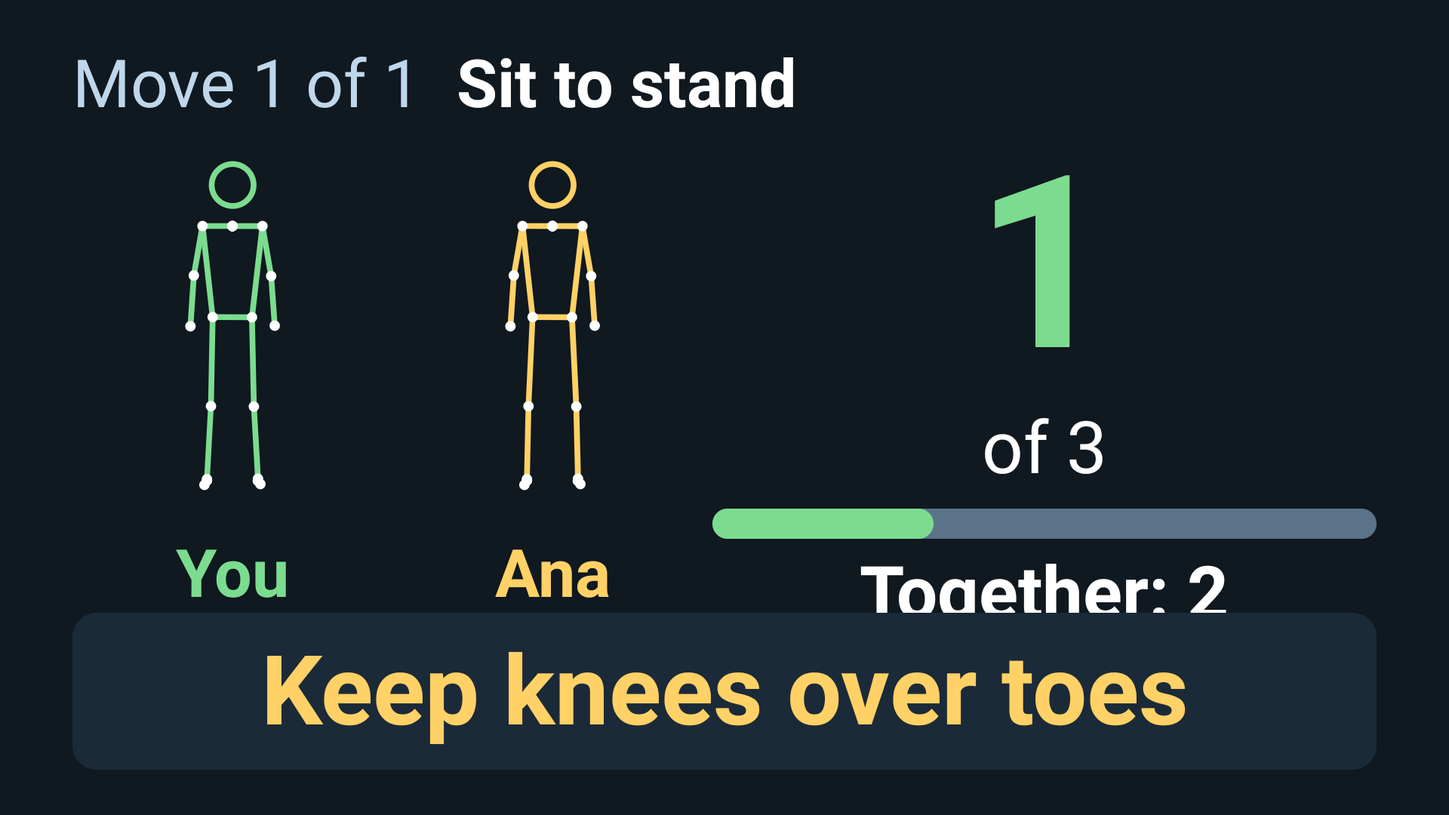
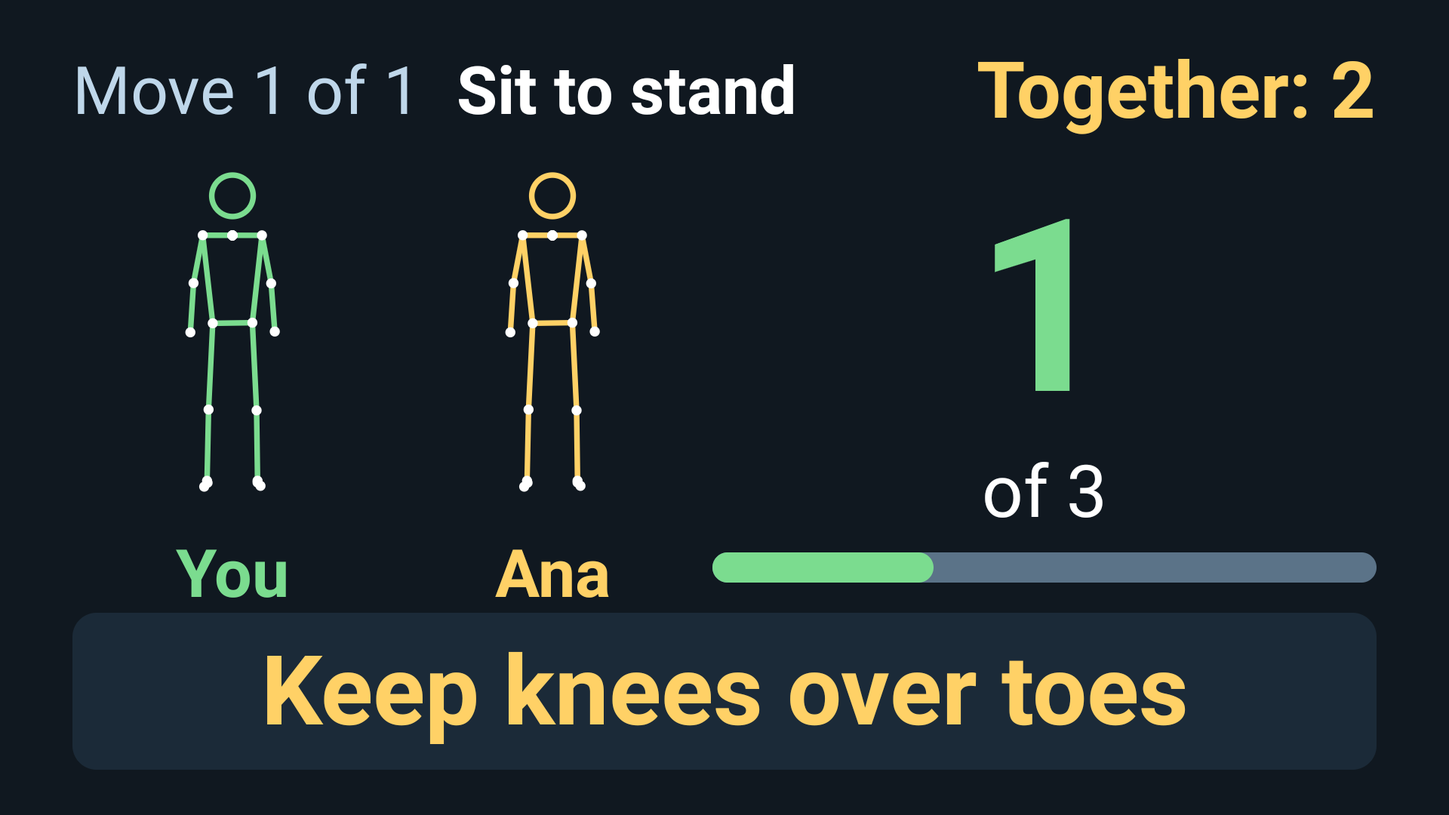
worldclass: fix Together total clipping, chair result button, focus scale, labels

diff --git a/android/app/src/main/java/com/steadyup/tv/Screens.kt b/android/app/src/main/java/com/steadyup/tv/Screens.kt
@@ -73,6 +73,7 @@ fun BigButton(label: String, onClick: () -> Unit, autoFocus: Boolean = true, fon
             focusedContainerColor = Color(0xFFBFE3F7), focusedContentColor = Ink.bg,
         ),
         border = ClickableSurfaceDefaults.border(focusedBorder = Border.None),
+        scale = ClickableSurfaceDefaults.scale(focusedScale = 1f),  // the ring and fill show focus; growing would push into neighbours and the safe margin
     ) {
         // the Surface's content box passes its size down, so a fixed-size button centres its label
         Box(if (fixedSize) Modifier.fillMaxSize() else Modifier, contentAlignment = Alignment.Center) {
@@ -199,6 +200,10 @@ fun LiveScreen(item: PlanItem, count: Int, cue: String?, pose: PoseFrame?, toget
             Text("Move $setNo ${Sentences.OF} $setTotal", fontSize = 44.sp, color = Ink.soft)
             Spacer(Modifier.width(24.dp))
             Text(item.title, fontSize = 44.sp, fontWeight = FontWeight.Bold, color = Ink.text)
+            if (together != null) {
+                Spacer(Modifier.weight(1f))
+                Text("${Sentences.TOGETHER_TOTAL} ${together.total}", fontSize = 52.sp, fontWeight = FontWeight.Bold, color = Ink.warn)
+            }
         }
         Row(Modifier.weight(1f).fillMaxWidth(), verticalAlignment = Alignment.CenterVertically) {
             if (together == null) Column(Modifier.weight(1f).fillMaxHeight(), verticalArrangement = Arrangement.Center) {
@@ -219,7 +224,6 @@ fun LiveScreen(item: PlanItem, count: Int, cue: String?, pose: PoseFrame?, toget
                 Box(Modifier.fillMaxWidth().height(20.dp).background(Color(0xFF5B7388), RoundedCornerShape(10.dp))) {
                     Box(Modifier.fillMaxWidth((count.toFloat() / item.target).coerceIn(0f, 1f)).fillMaxHeight().background(Ink.good, RoundedCornerShape(10.dp)))
                 }
-                if (together != null) { Spacer(Modifier.height(8.dp)); Text("${Sentences.TOGETHER_TOTAL} ${together.total}", fontSize = 48.sp, fontWeight = FontWeight.Bold, color = Ink.text) }
             }
         }
         // bottom banner: the form cue when there is one, otherwise what to do. With no voice on this TV, cues are bigger.
@@ -283,7 +287,7 @@ fun CalibrateScreen(cycles: Int, retry: Boolean, pose: PoseFrame?, onSkip: () ->
             Spacer(Modifier.height(12.dp))
             Text("$cycles ${Sentences.OF} 2", fontSize = 72.sp, fontWeight = FontWeight.Bold, color = Ink.good)
             Spacer(Modifier.height(12.dp))
-            BigButton(Sentences.CAL_SKIP, onSkip, fontSp = 40)
+            BigButton(Sentences.CAL_SKIP, onSkip, fontSp = 44)
         }
     }
 }
@@ -346,7 +350,7 @@ fun ChairGoScreen(count: Int, left: Int, cue: String?, pose: PoseFrame?, voice: 
         Row(Modifier.fillMaxWidth(), verticalAlignment = Alignment.CenterVertically) {
             Text(Sentences.CHAIR_BUTTON, fontSize = 44.sp, fontWeight = FontWeight.Bold, color = Ink.text)
             Spacer(Modifier.width(24.dp))
-            Text("$left s", fontSize = 56.sp, fontWeight = FontWeight.Bold, color = Ink.warn)
+            Text("$left seconds", fontSize = 56.sp, fontWeight = FontWeight.Bold, color = Ink.warn)
         }
         Row(Modifier.weight(1f).fillMaxWidth(), verticalAlignment = Alignment.CenterVertically) {
             Column(Modifier.weight(1f).fillMaxHeight(), verticalArrangement = Arrangement.Center) {
@@ -367,10 +371,10 @@ fun ChairGoScreen(count: Int, left: Int, cue: String?, pose: PoseFrame?, voice: 
 @OptIn(ExperimentalTvMaterial3Api::class)
 @Composable
 fun ChairResultScreen(score: Int, age: Int, sex: Int, onOk: () -> Unit) = Page {
-    Text(Sentences.CHAIR_SCORE, fontSize = 48.sp, color = Ink.soft)
-    Text("$score", fontSize = 150.sp, fontWeight = FontWeight.Bold, color = Ink.good)
+    Text(Sentences.CHAIR_SCORE, fontSize = 44.sp, color = Ink.soft)
+    Text("$score", fontSize = 110.sp, fontWeight = FontWeight.Bold, color = Ink.good)
     Text(Sentences.CHAIR_STANDS, fontSize = 44.sp, color = Ink.text)
-    Spacer(Modifier.height(12.dp))
+    Spacer(Modifier.height(8.dp))
     for (line in Cdc.lines(age, sex)) Text(line, fontSize = 40.sp, color = Ink.warn, textAlign = TextAlign.Center)
     Spacer(Modifier.height(14.dp))
     BigButton(Sentences.FINISH_OK, onOk, fontSp = 44)

diff --git a/android/app/src/main/java/com/steadyup/tv/MainActivity.kt b/android/app/src/main/java/com/steadyup/tv/MainActivity.kt
@@ -256,7 +256,7 @@ fun PairScreen(state: PairingState, restart: () -> Unit) {
                     Text(PairingReducer.spaced(state.code), fontSize = 80.sp, fontWeight = FontWeight.Bold, softWrap = false,
                         fontFamily = FontFamily.Monospace, color = Color.White)
                     Spacer(Modifier.height(16.dp))
-                    Text(BuildConfig.WEB_URL.removePrefix("https://"), fontSize = 44.sp, color = Color(0xFFBFD7EA))
+                    Text(BuildConfig.WEB_URL.removePrefix("https://"), fontSize = 46.sp, color = Color(0xFFBFD7EA))
                 }
             }
             PairingState.Connected -> {

diff --git a/docs/TV-REVIEW.md b/docs/TV-REVIEW.md
@@ -1,62 +1,55 @@
-# TV accessibility review
+# TV screenshot accessibility review
 
-Reviewed by eye from the 1920x1080 screenshots (density 2.0, so 40 sp = 80 px). No code was run and no pixels were measured by tool. Text-size figures are estimates from visible cap heights (Roboto cap height is about 0.71 of the font size), good to roughly +/- 4 px. "Borderline" means my estimate is 78 to 82 px, so it could be on either side of 80. Confirm those in code, not from this review.
+Reviewed by eye from the 1920x1080 emulator screenshots (320 dpi, so 40 sp = 80 px). Sizes are estimates from glyph heights (capital height about 0.71 of font size) with +/- 4 px error. Contrast was judged from the visible colours (light text on near-black navy, dark text on light-blue buttons); every pairing I saw is far above 4.5:1. Overall = worst of the four checks.
 
-Contrast: every pairing seen is well above 4.5:1. White, light blue (#BFD7EA-ish), green and amber on near-black navy are all about 10:1 or better. Dark text on the mid-blue button (#5FA8D3-ish) is about 7:1. Dark text on the pale focused button is about 12:1.
+Most body and subtitle text (light blue, and the white stat lines) measures cap height about 57-60 px, which is about 80-84 px font size. That is at the 40 sp floor, not above it. It passes, but there is no margin.
 
-## Per screenshot
+| File | Screen | Text size | Contrast | Clipping | Focus ring | Overall | Note |
+| --- | --- | --- | --- | --- | --- | --- | --- |
+| s0-tv.png | Splash | PASS (smallest "Your balance coach", ~80 px, at floor) | PASS | none | no buttons | PASS | Clean. |
+| s1-tv-code.png | Pairing: QR, code, address | BORDERLINE (smallest the web address, ~78-80 px; "Or type this number:" ~80 px) | PASS | none | no buttons | BORDERLINE | Address is the smallest text on any screen. It shows "cloudfront.net", a tech word users can see, and is a long string to type with a remote. |
+| s1-tv-connected.png | Connected | PASS (smallest "Your phone is ready.", ~85 px) | PASS | none | no buttons | PASS | Clean. |
+| s2-tv-figure.png | Live mirror | PASS (smallest "Stand up slowly..." cue, ~85 px; "of 8" ~100 px) | PASS | none | no buttons | PASS | Progress track is low contrast grey, but it is not text. |
+| s4-1-safety.png | First-run safety | PASS (smallest "Always use a sturdy chair.", ~90 px) | PASS | none | visible ("I understand") | PASS | Good. |
+| s4-2-home.png | Home, 4 buttons | PASS (button labels ~95 px; "Good to see you." ~82 px) | PASS | none; focused tile is enlarged and its halo starts at x=75, inside the 5% TV safe margin | visible (Start) | PASS | Focused tile grows to within ~7 px of its neighbour. Label wraps to 2 lines only on the focused tile. |
+| s4-3-intro.png | Move intro, sit to stand | PASS (smallest sentence ~82 px) | PASS | none | visible ("I'm ready") | PASS | Good. |
+| s4-4-live.png | Live set | PASS (cue ~85 px; "Move 1 of 3" ~90 px) | PASS | none | no buttons | PASS | Cue is large and yellow. |
+| s4-5-rest.png | Rest | PASS (smallest "Next: Heel raises", ~90 px) | PASS | none | visible ("Skip rest") | PASS | Good. |
+| s4-6-intro-heel.png | Move intro, heel raises | PASS (~82 px) | PASS | none | visible | PASS | Good. |
+| s4-7-live-heel.png | Live set, heel raises | PASS (~85 px) | PASS | none | no buttons | PASS | Good. |
+| s4-8-finish.png | Finish, 3 moves | PASS (stat lines ~85 px) | PASS | none, but "Back to start" text sits ~7-12 px from the inner edge of its button | visible | PASS | Third stat wraps to its own row and the order is odd (March before Heel). Tight button padding. |
+| s4-9-paused.png | Paused | PASS (~110 px) | PASS | none | visible ("OK") | PASS | Good. |
+| s5-finish.png | Finish, full session | PASS (stat lines ~85 px) | PASS | none; content spans y=100 to 1005, very full | visible | PASS | Crowded: two columns, five wrapped lines. "Foot in front (seconds): 40" reads awkwardly. Button text tight. |
+| s5-intro-2.png | Move intro, side leg | PASS (~82 px) | PASS | none | visible | PASS | Title wraps to 2 lines; fits. |
+| s5-intro-4.png | Move intro, march | PASS (~82 px) | PASS | none | visible | PASS | Good. |
+| s5-intro-5.png | Move intro, foot in front | PASS (~82 px) | PASS | none | visible | PASS | Good. |
+| s5-live-hold.png | Live hold timer | PASS (~85 px) | PASS | none | no buttons | PASS | Good. |
+| s6-tv-week.png | This week + family QR | PASS (smallest "Last time:" / "Family can scan this.", ~82 px) | PASS | none; text and button close together, left text at x=97 (edge of safe margin) | visible ("Back to start") | PASS | QR has a caption. Left column is dense. |
+| s8-tv-room.png | Move together lobby | PASS (smallest "Family can join with this.", ~80 px) | PASS | none | visible ("Start together") | PASS | Good. |
+| s8-tv-two-cameras.png | Live set, two people | BORDERLINE ("Together: 2" cannot be judged, half hidden; the rest ~85 px or larger) | PASS | FAIL: "Together: N" is cut in half by the cue box (bottom of the letters hidden) | no buttons | FAIL | The shared total is the key number on this screen and it is unreadable. "You"/"Ana" labels also sit within ~15 px of the cue box. |
+| s8-tv-two-figures.png | Live set, two people | BORDERLINE (same: "Together: 0" cut off) | PASS | FAIL: same cut-off | no buttons | FAIL | Same defect. |
+| s9-calibrate.png | "Let's try once more." calibration | PASS (smallest "Skip" ~78-80 px bold, borderline; body ~85 px) | PASS | none | visible ("Skip") | PASS | "Skip" button is much smaller than the others; label is the smallest bold text here. |
+| s9-chair-1-question.png | Chair check question | PASS (smallest "Chair stand check", ~90 px) | PASS | none | visible (Yes focused, No plain) | PASS | Good. |
+| s9-chair-2-about.png | Age / sex choices | PASS (smallest "Press OK to change a choice.", ~80-82 px) | PASS | none; "Sex: Woman" text almost touches its focus ring | visible (Sex) | PASS | Intro sentence wraps with a one-word orphan ("score."). |
+| s9-chair-3-how.png | Chair check instructions | PASS (six lines at ~82 px, all at the floor) | PASS | none | visible ("I'm ready") | PASS | Six lines is a lot of text, each is under 12 words. |
+| s9-chair-4-go.png | Chair check running | PASS (smallest "stands", ~95 px; "20 s" ~110 px) | PASS | none | no buttons | PASS | "20 s" uses an abbreviation. |
+| s9-chair-5-result.png | Chair check score | PASS (smallest "CDC lists under 11...", ~80-82 px) | PASS | FAIL: the button at the bottom is empty and squashed to a thin outline (~40 px tall, no label) | focus ring visible, but on a button with no text | FAIL | Missing or collapsed button label. A user cannot tell what OK does. "CDC" is jargon. Text block fills the screen to y=940. |
+| s9-chair-no.png | Chair check skipped | PASS (~110 px) | PASS | none | visible ("Back to start") | PASS | Friendly sentence. |
+| s9-finish.png | Finish, one move | PASS (~85 px) | PASS | none; button text tight | visible | PASS | Good. |
+| s9-home-grid.png | Home, 4 buttons | PASS (same as s4-2) | PASS | none; same enlarged focused tile | visible | PASS | Identical to s4-2-home. |
+| s9-live-midset.png | Live set, cue showing | PASS (~85 px; cue ~110 px) | PASS | none | no buttons | PASS | Good. |
 
-| File | Screen | Text size | Contrast | Clipping | Focus ring | Note |
-| --- | --- | --- | --- | --- | --- | --- |
-| s0-tv.png | Splash: SteadyUp + tagline | PASS (smallest: tagline, ~83 px) | PASS | none | no buttons | Clean. |
-| s1-tv-code.png | Pairing: QR, code, web address | FAIL (smallest: web address line ~76 px; "Or type this number:" ~80 px borderline) | PASS | none | no buttons | The address `d3ltiulf1p49il.cloudfront.net` is a tech word a user can see and is small. |
-| s1-tv-connected.png | First-run safety (not a "Connected" screen) | PASS (smallest: "I understand" button ~88 px) | PASS | none | visible | File name does not match the content. It shows the safety screen, so the "Connected" proof is missing. |
-| s2-tv-figure.png | Live set, Sit to stand 0 of 8 | PASS (smallest: "Move 1 of 10" ~78 px, borderline) | PASS (progress track is faint, see problems) | none; cue panel bottom is 32 px from the edge | no buttons | Header is the weakest text on every live screen. |
-| s4-1-safety.png | First-run safety | PASS (smallest: button ~88 px) | PASS | none | visible | Plain, short sentences. |
-| s4-2-home.png | Home: 4 buttons | PASS (smallest: "Good to see you." ~84 px) | PASS | none | visible (on "Start today's 10 minutes") | Focus ring touches the "Move together" button. The grid is ragged: row 1 is left-aligned and row 2 is centered. |
-| s4-3-intro.png | Move intro: Sit to stand | PASS (smallest: instruction ~84 px) | PASS | none | not visible | "I'm ready" has no focus ring. A line wraps with the orphan word "down." |
-| s4-4-live.png | Live set with cue "Keep knees over toes" | PASS (smallest: "Move 1 of 3" ~78 px, borderline) | PASS | none; cue panel bottom is 32 px from the edge | no buttons | Cue is large and clear. Panel is inside the 5% TV safe margin. |
-| s4-5-rest.png | Shows the Heel raises intro, not Rest | PASS (smallest: instruction ~84 px) | PASS | none | not visible | Not a Rest screen. The Rest screen has no screenshot. |
-| s4-6-intro-heel.png | Move intro: Heel raises | PASS (smallest: ~84 px) | PASS | none | not visible | Same as s4-3. Wrap leaves "lower slowly." on line 2, fine. |
-| s4-7-live-heel.png | Live set, Heel raises 2 of 3 | PASS (smallest: header ~78 px, borderline) | PASS | none; cue panel 32 px from edge | no buttons | Progress bar is readable once filled. |
-| s4-8-finish.png | Shows Home, not Finish | PASS (smallest: ~84 px) | PASS | none | visible | Not a Finish screen, content duplicates s4-2-home. |
-| s4-9-paused.png | Paused: "Press OK when you're ready." | PASS (smallest: OK button ~90 px) | PASS (amber on navy) | none | visible | The sentence wraps and leaves "ready." alone on line 2. |
-| s5-finish.png | Finish: "Well done!" and six totals | PASS (smallest: "See you tomorrow." ~84 px; totals ~84 px) | PASS | none; button bottom edge is 52 px from the bottom, tight vs overscan | visible, but button is EMPTY | The button has no label. A focused, empty button is the worst defect in this set. |
-| s5-intro-2.png | Move intro: Leg out to the side, left | PASS (smallest: instruction ~84 px) | PASS | none | not visible | Title wraps and leaves "left" alone. |
-| s5-intro-4.png | Move intro: March in place | PASS (smallest: ~84 px) | PASS | none | not visible | Good. |
-| s5-intro-5.png | Move intro: Foot in front | PASS (smallest: ~84 px) | PASS | none | not visible | Good. |
-| s5-live-hold.png | Live hold, 8 of 20 seconds | PASS (smallest: header ~78 px, borderline) | PASS | none; cue panel 32 px from edge | no buttons | Good. |
-| s6-tv-week.png | This week + family QR | PASS (smallest: "Last time:" ~78 px, borderline; list rows ~82 px) | PASS | none | not visible | "Back to start" shows no focus ring. Text column is dense for one screen. |
-| s8-tv-room.png | Move together: room code + QR | PASS (smallest: "Family can join with this." ~82 px) | PASS | none | not visible | "Start together" shows no focus ring. |
-| s8-tv-two-cameras.png | Together live: You and Ana (both moving) | PASS (smallest: header ~78 px borderline; "You"/"Ana" labels ~78 px borderline) | PASS | none; "You"/"Ana" sit 20 px above the cue panel, tight but not overlapping | no buttons | Figures are small. Two colors plus names helps. |
-| s8-tv-two-figures.png | Together live, cue shown, "Together: 2" | PASS (smallest: header ~78 px borderline; labels ~78 px borderline) | PASS | none; labels tight above cue panel | no buttons | Same layout as above. |
-| s9-calibrate.png | "Let's try once more" + 0 of 2 | PASS (smallest: instruction ~84 px; "Skip" ~80 px borderline) | PASS | none; bottom of Skip is 74 px from the edge | not visible | "Skip" has no focus ring. Wrapped lines are fine. |
-| s9-chair-1-question.png | Chair stand check: Yes / No | PASS (smallest: "Chair stand check" ~80 px, borderline) | PASS | none | visible (on "Yes") | One 11-word question. Good. |
-| s9-chair-2-about.png | Optional age / sex picker + Next | PASS (smallest: button text ~88 px) | PASS | none | visible (on "Sex: Woman") | "Age: 65 to 69" and "Sex: Woman" look like fixed labels, not choices. Nothing says "press OK to change". |
-| s9-chair-3-how.png | Chair stand check: how to do it | PASS (smallest: lines ~82 px, borderline) | PASS | none; margins are fine | not visible | Six short lines, none over 10 words. Good plain language. Button has no ring. |
-| s9-chair-4-go.png | Chair stand live: 21 s, 8 stands | PASS (smallest: "stands" ~90 px; header ~85 px) | PASS | none; cue panel 32 px from edge | no buttons | Good. |
-| s9-chair-5-result.png | Result: score 12, CDC line | PASS (smallest: CDC lines ~80 px, borderline) | PASS | none; left/right margin about 83 px | visible | "CDC lists under 11 as below average" is the longest text here and uses an acronym. |
-| s9-chair-no.png | "That's okay. We'll skip this check." | PASS (smallest: button ~88 px) | PASS | none | not visible | "Back to start" has no focus ring. |
-| s9-finish.png | Finish: Sit to stand 8 | PASS (smallest: "Sit to stand: 8" ~84 px) | PASS | none | visible | Good. Label is present on the button, unlike s5-finish. |
-| s9-home-grid.png | Home: 4 buttons | PASS (smallest: "Good to see you." ~84 px) | PASS | none | visible | Identical to s4-2. Focus ring still touches "Move together". |
-| s9-live-midset.png | Live set 7 of 8 with cue | PASS (smallest: header ~78 px, borderline) | PASS | none; cue panel 32 px from edge | no buttons | Good. |
-
-## Counts
-
-- Text-size verdict: **31 PASS, 1 FAIL** (32 screenshots).
-- About 12 of the 31 PASS rows contain text I rate borderline (78 to 82 px).
-- Other defects (not in the text-size count): 1 empty button (s5-finish), 11 screens where the only button shows no focus ring, 3 screenshots whose name does not match the screen shown.
+Counts: PASS 28, BORDERLINE 1, FAIL 3 (32 rows).
 
 ## Real problems, most serious first
 
-1. **s5-finish.png: the focused button has no label.** A person using the remote sees a blank pill and does not know what OK does. Fix: set the label ("Back to start") or find why the text is missing (likely text colour equal to the focused fill, or an empty string on this screen path).
-2. **Single-button screens show no focus ring** (s4-3, s4-5, s4-6, s5-intro-2/4/5, s6-tv-week, s8-tv-room, s9-calibrate, s9-chair-3, s9-chair-no). With one button the user cannot tell it is pressable. Fix: request focus on the primary button when the screen appears (`LaunchedEffect` plus `FocusRequester`) so the 6 dp white ring always shows. The intro "I'm ready" screens matter most, since they gate every set. Note the emulator capture may have been taken before focus was granted, so confirm on a rerun.
-3. **Evidence does not match file names.** s1-tv-connected shows the safety screen, s4-5-rest shows the Heel raises intro, s4-8-finish shows Home. The "Connected", Rest and Finish screens for the S1 and S4 slices therefore have no valid proof here, and I could not review the Rest screen at all. Fix: recapture these three, or rename and add the missing shots.
-4. **s1-tv-code.png: web address line is a tech word and the smallest text in the set (~76 px).** "d3ltiulf1p49il.cloudfront.net" breaks the "no tech words" rule and is below 80 px. Fix: drop it from the TV (the QR and the 6 digits are enough) or show a short friendly line such as "Or go to the web page on your phone's browser"; if it must stay, raise it to at least 40 sp.
-5. **"Move N of M" header and "You"/"Ana" labels are borderline (~78 px).** They sit on every live screen. Fix: set them to at least 44 sp so they clear 80 px with margin; do not rely on this review to confirm exact sizes.
-6. **Live-screen content sits inside the overscan margin.** The cue panel ends 32 px from the bottom edge and the header starts about 50 px from the top; s5-finish's button ends 52 px from the bottom. Many TVs crop 3 to 5% (about 32 to 54 px). Fix: add at least 54 px safe padding on all edges (about 27 dp).
-7. **Home grid is ragged and the focus ring touches a neighbour** (s4-2, s9-home-grid). Row 1 is two unequal buttons running to the left edge, row 2 is centred, and the ring on "Start today's 10 minutes" touches "Move together". Fix: use equal-width buttons in a 2x2 grid with at least 24 dp gaps, or a single vertical list (best for arrow-key navigation).
-8. **Progress track is almost invisible when empty** (s2, s4-4, s8). The empty bar (#2B3B4D on #111820) is about 1.5:1. It is not text, but at 0 progress it looks like a missing element. Fix: lighten the track or add a 2 dp outline (3:1 is the non-text target).
-9. **s9-chair-5-result: "CDC lists under 11 as below average for your age."** Uses an acronym and a comparison claim on screen. It quotes the cited source, so it is probably within the hard rule, but "CDC" is jargon for this audience. Fix: say "The U.S. health agency lists under 11 as below average", or keep "CDC" only in the README.
-10. **s9-chair-2-about: age and sex buttons do not look changeable.** "Age: 65 to 69" reads as fixed text. Fix: add a hint such as "Press OK to change" or show left/right arrows on the focused button.
-11. **Orphan wraps** ("down." in s4-3, "ready." in s4-9, "left" in s5-intro-2, "week." in s6). Cosmetic. Fix: widen the text column or insert a manual line break after the first sentence.
+1. **"Together: N" is cut off on the Move together live screen** (s8-tv-two-cameras, s8-tv-two-figures). The cue box overlaps the bottom half of the shared total. This is the headline number of the feature. Move the label up or shrink the figures and bar.
+2. **The Chair stand score screen has an empty, collapsed button** (s9-chair-5-result). The bottom button shows a focus ring but no label and almost no height. The screen has no readable way to continue. The text block above it also runs to y=940, so the button was probably squeezed out of room.
+3. **The pairing address is the smallest text in the app and shows a tech word** (s1-tv-code). Estimated 78-80 px, below or at the 80 px floor, and it reads "d3ltiulf1p49il.cloudfront.net". That breaks both "40 sp minimum" and "no tech words a user can see". It is also not a realistic thing to type with a remote.
+4. **Almost all body text is exactly at the floor** (about 80-84 px, cap height 57-60). Passing on this review, but any 5% drop (different density, font fallback) would break the rule. Consider 44 sp for subtitles and cues.
+5. **Finish screens are cramped** (s4-8-finish, s5-finish, s9-finish). Button label sits 7-12 px from the focus ring's inner edge. The full-session Finish uses two wrapped columns up to y=1005. Stat order on s4-8 is odd (March before Heel raises).
+6. **Focused Home tile is enlarged and its halo reaches x=75** (s4-2-home, s9-home-grid), inside the 5% TV safe margin, and almost touches its neighbour. Not clipped here, but on overscan TVs the left edge could trim.
+7. **Minor wording:** "CDC lists under 11 as below average for your age" (jargon), "20 s" (abbreviation), "Foot in front (seconds): 40" (awkward), orphan words ("score.", "age.").
+8. **Small "Skip" button on s9-calibrate** is much smaller than other buttons and its bold text (~78-80 px) is at the floor. It is visible and focused, but is the weakest target on any screen.
+
+Not checked: real Fire TV hardware rendering, TTS, other screens not in the list (family and phone pages were skipped as instructed). The "Together" label size could not be measured because it is half hidden.

diff --git a/docs/QUALITY.md b/docs/QUALITY.md
@@ -1,0 +1,20 @@
+# Quality bar results (worldclass branch)
+
+Run by `npm run verify` (last run: exit 0, every slice PASS, S9 53 checks). Pages tested at **390 px wide**.
+
+| Check | Result | How |
+| --- | --- | --- |
+| axe: no serious or critical issues | PASS on the phone join page (and its live view), the "move together" page, the family page (bad link and real data) and the recorder | `tests/e2e/s9-quality.spec.ts` (`@axe-core/playwright`) |
+| Lighthouse accessibility, phone page | **100** (needed 95+) | `scripts/lighthouse-a11y.sh` (Lighthouse 12, mobile, 390x844) |
+| 390 px, no sideways scroll | PASS on all five pages | same spec: `scrollWidth <= clientWidth` |
+| Zero console errors in e2e | PASS: every browser page opened by a test fails the test if it logs a console error or an uncaught error (MediaPipe's own "INFO: Created TensorFlow Lite XNNPACK delegate" line is ignored, it is not an error) | `tests/phone.ts` |
+| Banned tech words | PASS: scan of visible text on the phone pages (`s9-quality.spec.ts`), of every string literal in the TV screens, plan and CDC files (`tests/unit/s9-words.test.ts`), and of every `Sentences` line (Kotlin tests) | words: landmark, websocket, sync, api, error code, server, pose |
+| TV text at least 40 sp | PASS in code: every `fontSize` / `fontSp` / cue size in `Screens.kt` is >= 40 | `tests/unit/s9-words.test.ts` |
+| TV text size, contrast, clipping on real screenshots | see `docs/TV-REVIEW.md` (a reviewer with no context looked at every TV screenshot) | emulator 1920x1080 at 320 dpi (40 sp = 80 px) |
+| D-pad focus visible on every button screen | PASS: `waitScreen` in the e2e helpers asks the TV for its UI tree and fails if nothing is focused on safety, home, week, together, calibrate, the chair screens, paused, rest, intro, finish | `tests/tv.ts` (uiautomator) |
+| Back always works | PASS: unit test walks every screen; Back returns Home (Home and the first safety screen leave Back to the system) | `S9WorldClassTest.backNeverLeavesYouStuck` |
+| No Google Play services | PASS: none in the debug or release runtime dependency tree | `scripts/check-no-play-services.sh` |
+| Fire TV manifest | PASS: leanback launcher, 320x180 banner on the app and the activity, touchscreen not required, only the INTERNET permission | `tests/unit/s9-fire-tv.test.ts` |
+| Secrets | gitleaks: no leaks | `gitleaks detect` |
+| Dependencies | `npm audit`: 0 vulnerabilities | `npm audit` |
+| Clean clone | fresh clone: `npm ci`, `npm test`, APK build, Gradle tests all pass | `scripts/clean-clone-check.sh` |
